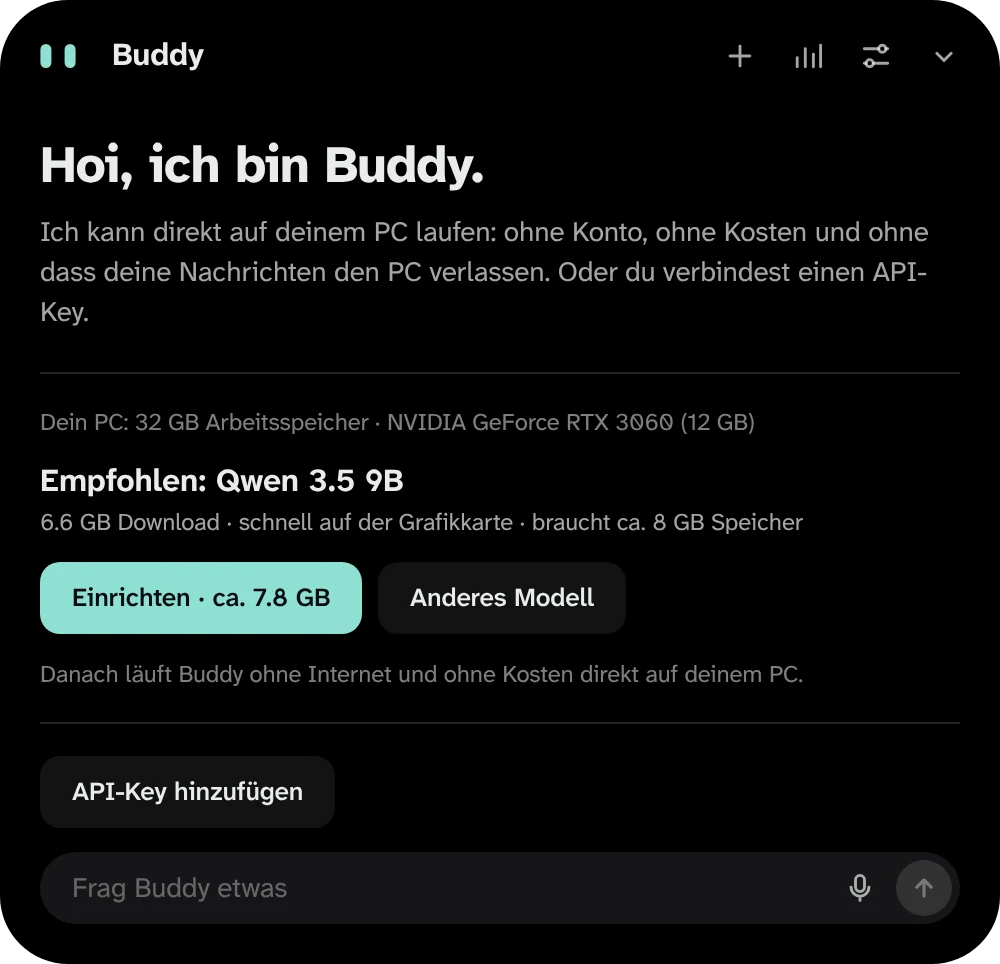
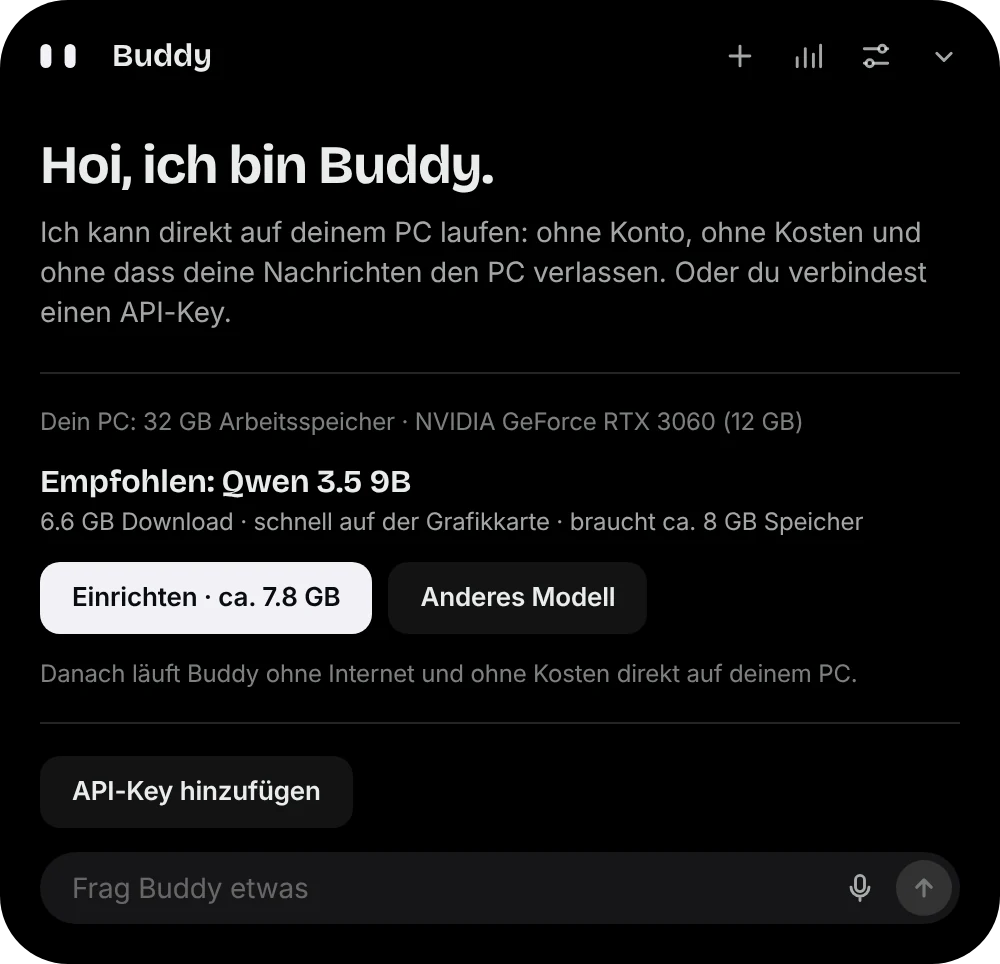
Website für Version 0.11.1: weisse Augen, Schriften wie die App
- Bildschirmfotos und Vorschaubild neu (Standardfarbe Weiss, Überschriften in Bricolage)
- Augen im Logo wieder weiss, «Neu in 0.11.1» als Ausweichtext

Claude-Session: https://claude.ai/code/session_019aeRarCEyN9U91pjxW7b7J

diff --git a/index.html b/index.html
@@ -50,7 +50,7 @@
         <a class="btn" href="https://github.com/wolfawidmer-sudo/buddy-island/releases/latest" data-download>Für Windows herunterladen</a>
         <a class="link" href="https://github.com/wolfawidmer-sudo/buddy-island">Quellcode ansehen</a>
       </div>
-      <p class="meta"><span data-version>Version 0.11.0</span><span data-size></span> · kostenlos · MIT-Lizenz</p>
+      <p class="meta"><span data-version>Version 0.11.1</span><span data-size></span> · kostenlos · MIT-Lizenz</p>
 
       <figure class="stage">
         <div class="stage-screen">
@@ -68,7 +68,7 @@
             <h3>Fragen und schreiben</h3>
             <p>Lass dir etwas erklären, einen Text formulieren oder Code schreiben. Antworten erscheinen Wort für Wort, Code ist hervorgehoben und mit einem Klick kopiert. Gefällt eine Antwort nicht, lässt du sie neu schreiben.</p>
           </div>
-          <img class="shot" src="img/open-ai.webp" width="1000" height="660" loading="lazy" alt="Buddy beantwortet die Frage, wie viel Arbeitsspeicher man zum Gamen braucht.">
+          <img class="shot" src="img/open-ai.webp" width="1000" height="744" loading="lazy" alt="Buddy beantwortet die Frage, wie viel Arbeitsspeicher man zum Gamen braucht.">
         </article>
         <article class="row">
           <div class="row-text">
@@ -135,12 +135,10 @@
     </section>
 
     <section class="block wrap" id="neu" aria-labelledby="neu-t">
-      <h2 id="neu-t">Neu in <span data-version>Version 0.11.0</span></h2>
+      <h2 id="neu-t">Neu in <span data-version>Version 0.11.1</span></h2>
       <ul class="news" id="newsList">
-        <li><h3>Ein ruhigeres Aussehen</h3><p>Buddy ist jetzt offen wie geschlossen eine schwarze Insel. Weniger Kästen, mehr Ruhe: Inhalte stehen direkt da, und Buddys Augen zeigen, was gerade aktiv ist.</p></li>
-        <li><h3>Leichter zu lesen</h3><p>Eine neue Schrift, gemacht für gute Lesbarkeit, auch bei kleinen Texten. Sie ist in Buddy eingebaut und braucht kein Internet.</p></li>
-        <li><h3>Hell oder dunkel</h3><p>Unter Einstellungen › Erscheinungsbild wählst du Dunkel, Hell oder wie Windows. Geschlossen bleibt die Insel immer schwarz.</p></li>
-        <li><h3>Neue Farbe «Lagune»</h3><p>Buddys neue Standardfarbe für die Augen. Jede Akzentfarbe bleibt jetzt in Hell und Dunkel gut lesbar.</p></li>
+        <li><h3>Dieselbe Schrift wie die Website</h3><p>Überschriften in Buddy sehen jetzt aus wie auf der Website, der Text bleibt in der vertrauten Windows-Schrift.</p></li>
+        <li><h3>Weiss als Standardfarbe</h3><p>Buddys Augen sind wieder weiss. «Lagune» und die anderen Farben findest du weiterhin unter Einstellungen › Akzentfarbe.</p></li>
       </ul>
       <a class="link" href="https://github.com/wolfawidmer-sudo/buddy-island/releases">Alle Versionen auf GitHub</a>
     </section>

diff --git a/style.css b/style.css
@@ -45,7 +45,7 @@ code { font: 0.9em var(--mono); background: var(--paper-2); padding: 1px 5px; bo
 .top-row { display: flex; align-items: center; gap: 28px; height: 60px; }
 .mark { display: inline-flex; align-items: center; gap: 10px; font: 650 17px var(--display); color: var(--ink); text-decoration: none; margin: 0; }
 .eyes { display: inline-flex; gap: 3px; padding: 6px 9px; background: var(--island); border-radius: 999px; }
-.eyes i { width: 4px; height: 9px; background: #8ee0d2; border-radius: 2px; } /* «Lagune», wie Buddys Augen in der App */
+.eyes i { width: 4px; height: 9px; background: #fff; border-radius: 2px; } /* weiss, wie Buddys Augen in der App */
 .nav { display: flex; gap: 24px; list-style: none; margin: 0; padding: 0; }
 .nav a { color: var(--ink-2); text-decoration: none; font-size: 15px; }
 .nav a:hover { color: var(--ink); }
